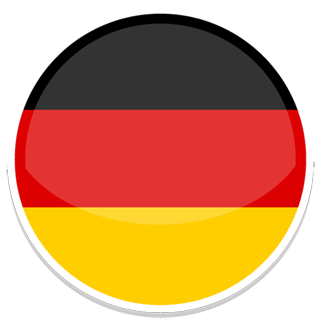
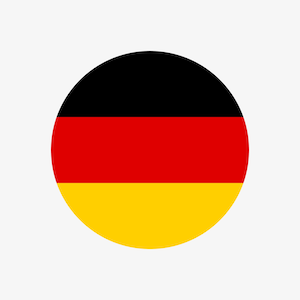
flag pic.s and ui update

diff --git a/index.html b/index.html
@@ -5,7 +5,7 @@
     <meta name="viewport" content="width=device-width, initial-scale=1.0">
     <meta http-equiv="X-UA-Compatible" content="ie=edge">
     <link rel="stylesheet" href="https://cdnjs.cloudflare.com/ajax/libs/materialize/1.0.0-rc.2/css/materialize.min.css">
-    <title>Yandex API - Translate</title>
+    <title>Translate App</title>
     
 </head>
 <body>
@@ -14,11 +14,11 @@
                     <div class="col s8">
                         <div id="main" class="card">
                             <div class="card-content">
-                                <span class="card-title">Yandex API - Translate APP</span>
+                                <span class="card-title">Translate App</span>
                                 <div class="row">
                                     <form id="translate-form">
                                         <div class="input-field col s8">
-                                            <input type="text" name = "word" id = "word" value ="Nasılsın">
+                                            <input type="text" name = "word" id = "word" value ="Nasılsın?">
                                             <label for="task">Çevirilecek Kelime</label>
                                         </div>
 
@@ -26,14 +26,14 @@
                                                 <select id = "language">
                                                   
                                                   <option value="en">İngilizce</option>
-                                                  <option value="de">Almanca</option>
-                                
+                                                  <option value="fr">Fransızca</option>
                                                   <option value="es">İspanyolca</option>
+                                                  <option value="az">Azerbaycanca</option>
+                                                  <option value="de">Almanca</option>
                                                 </select>
                                                 
                                         </div>
-                                            
-
+                                        
                                         <input type="submit" value = "Çevir" class = "btn col s8"> 
                                         
                                     </form>
@@ -47,7 +47,7 @@
                               
                             </div>
                             <div class="card-content">
-                              <h5>Çevrilen Kelime: <span id = "outputWord" style = "color :red;"> How are you ?</span></h5>
+                              <h5>Çevrilen Kelime: <span id = "outputWord" style = "color :red;"> How are you?</span></h5>
                             </div>
                           </div>
                     </div>

diff --git a/app.js b/app.js
@@ -5,10 +5,11 @@ function addEventListeners(){
     // change 
     document.getElementById("language").onchange=function(){
         // ınterface
+        ui.changeUI();
     }
 }
 const translate = new Translate(document.getElementById("word").value,document.getElementById("language").value);
-
+const ui = new UI();
 function translateWord(e){
 
     translate.changeParameters(document.getElementById("word").value,document.getElementById("language").value);
@@ -17,7 +18,7 @@ function translateWord(e){
             console.log(err);
         }
         else{
-            console.log(response);
+            ui.displayTranslate(response);
         }
     });
 

diff --git a/ui.js b/ui.js
@@ -1,0 +1,15 @@
+function UI(){
+    this.outputImage = document.getElementById("outputImage");
+    this.outputLanguage = document.getElementById("outputLanguage");
+    this.outputWord = document.getElementById("outputWord");
+
+    this.languageList = document.getElementById("language");
+}
+UI.prototype.changeUI = function(){
+    this.outputImage.src=`images/${this.languageList.value}.png`;
+    this.outputLanguage.innerHTML = this.languageList.options[this.languageList.selectedIndex].textContent;
+}
+
+UI.prototype.displayTranslate = function(word){
+    this.outputWord.textContent = word;
+}

diff --git a/translate.js b/translate.js
@@ -1,5 +1,5 @@
 function Translate(word, language){
-    this.apikey =" trnsl.1.1.20180930T080756Z.753c49142579b043.b2798189b8760e7b357c9d23a8736ef0a54be481";
+    this.apikey =""; // your apikey
     this.word = word;
     this.language = language;
 
